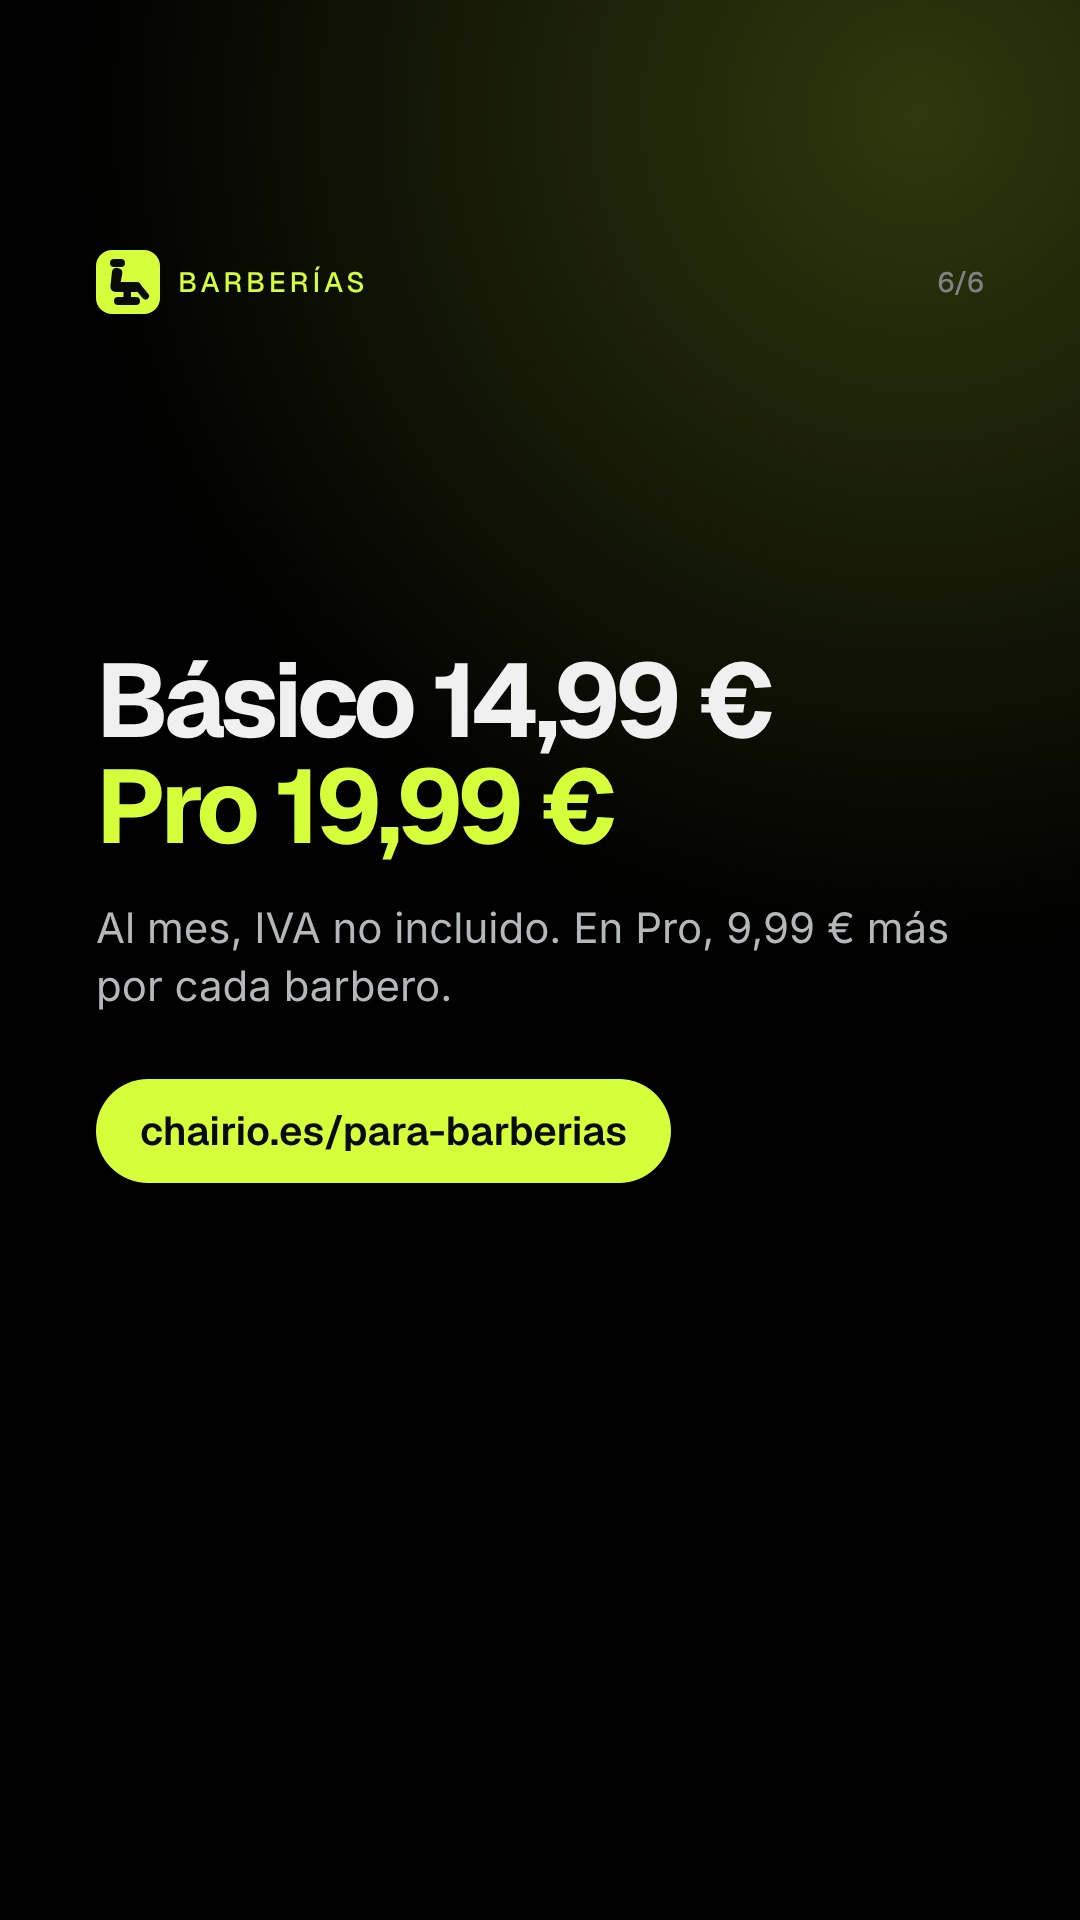
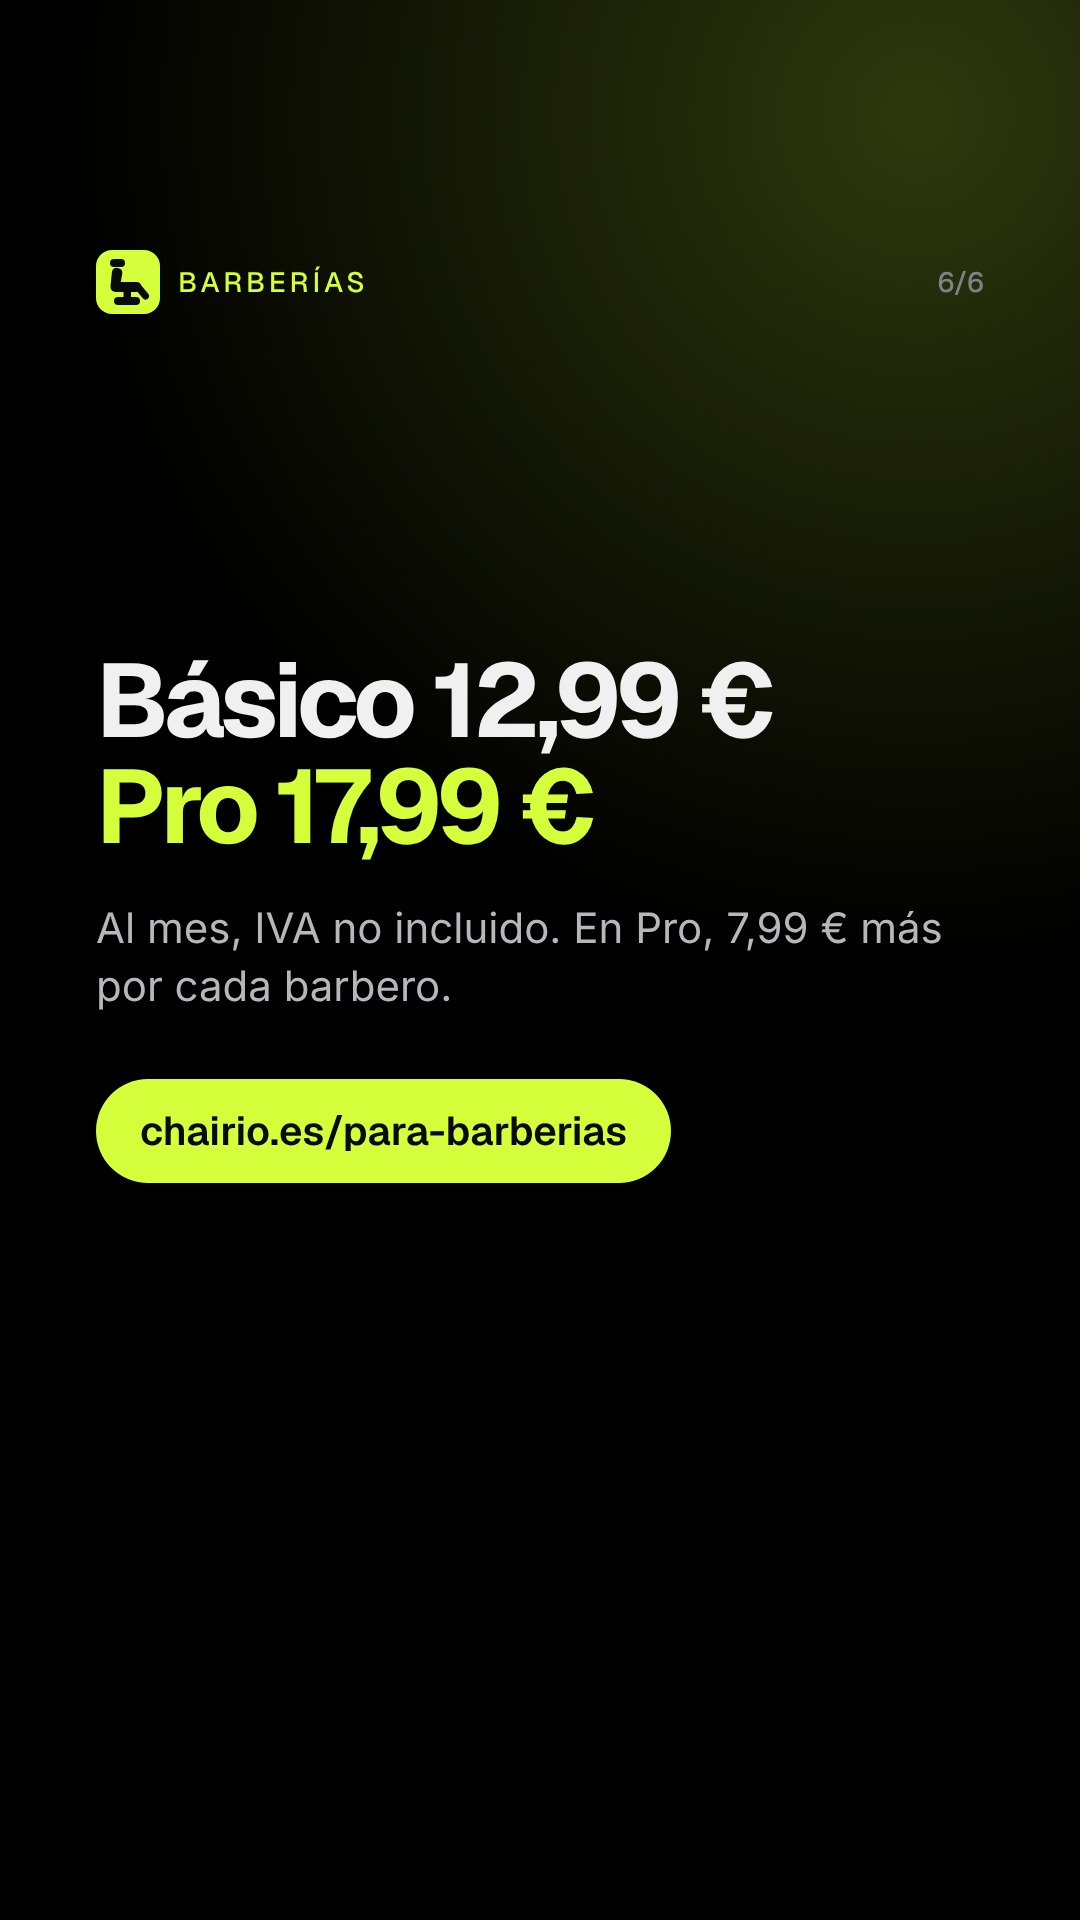
Perfil de Instagram: precios nuevos para barberías (12,99 / 17,99 / 7,99 €)
Biografía (GUIA.md), post fijado de barberías e historia de precios de la
destacada «Barberías».

Claude-Session: https://claude.ai/code/session_01LudE5oHpFJ8q7sX2bSVU3M

Changed region(s): [[0.275, 0.3438, 0.5806, 0.4688], [0.6722, 0.4688, 0.8861, 0.5], [0.55, 0.3438, 0.5806, 0.375]]

diff --git a/perfil-instagram/GUIA.md b/perfil-instagram/GUIA.md
@@ -39,7 +39,7 @@ Instagram la recorta en círculo; la silla está centrada para que no se corte.
 ```
 💈 Reserva en tu barbería sin llamar
 ✂ Hazte socio: tus cortes con cuota al mes
-💼 ¿Barbería? Desde 14,99 €/mes + IVA
+💼 ¿Barbería? Desde 12,99 €/mes + IVA
 📍 Murcia 👇
 ```
 
@@ -48,7 +48,7 @@ Alternativas:
 ```
 Tu barbería de siempre, con cuota fija 💈
 Reserva sin llamar · Hazte socio
-¿Tienes barbería? Desde 14,99 €/mes + IVA
+¿Tienes barbería? Desde 12,99 €/mes + IVA
 📍 Murcia 👇
 ```
 
@@ -115,7 +115,7 @@ Portadas en `destacadas/`. Para cada una: sube una historia, añádela a destaca
 |---|---|---|---|
 | 1 | Reservar | `reservar.png` | La reserva paso a paso con las capturas de demo del reel ya publicado. |
 | 2 | Socios | `socios.png` | Qué es ser socio: cuota al mes, cortes incluidos, sin permanencia. |
-| 3 | Barberías | `barberias.png` | Para dueños: agenda, membresías, página propia y QR. Planes desde 14,99 € + IVA. |
+| 3 | Barberías | `barberias.png` | Para dueños: agenda, membresías, página propia y QR. Planes desde 12,99 € + IVA. |
 | 4 | Cómo va | `como-va.png` | Los reels de funciones (los de la automatización). |
 | 5 | Dudas | `dudas.png` | Las preguntas frecuentes de arriba, una por historia. |
 
@@ -172,7 +172,7 @@ Reserva en chairio.es
 ```
 ¿Tienes barbería? Esto es para ti ✂
 
-Reservas online, membresías con cobro mensual para tus socios y tu página propia con QR para compartir. Crear la cuenta y preparar tu página es gratis; los planes van desde 14,99 € al mes + IVA.
+Reservas online, membresías con cobro mensual para tus socios y tu página propia con QR para compartir. Crear la cuenta y preparar tu página es gratis; los planes van desde 12,99 € al mes + IVA.
 
 Da de alta tu barbería en chairio.es/para-barberias
 
